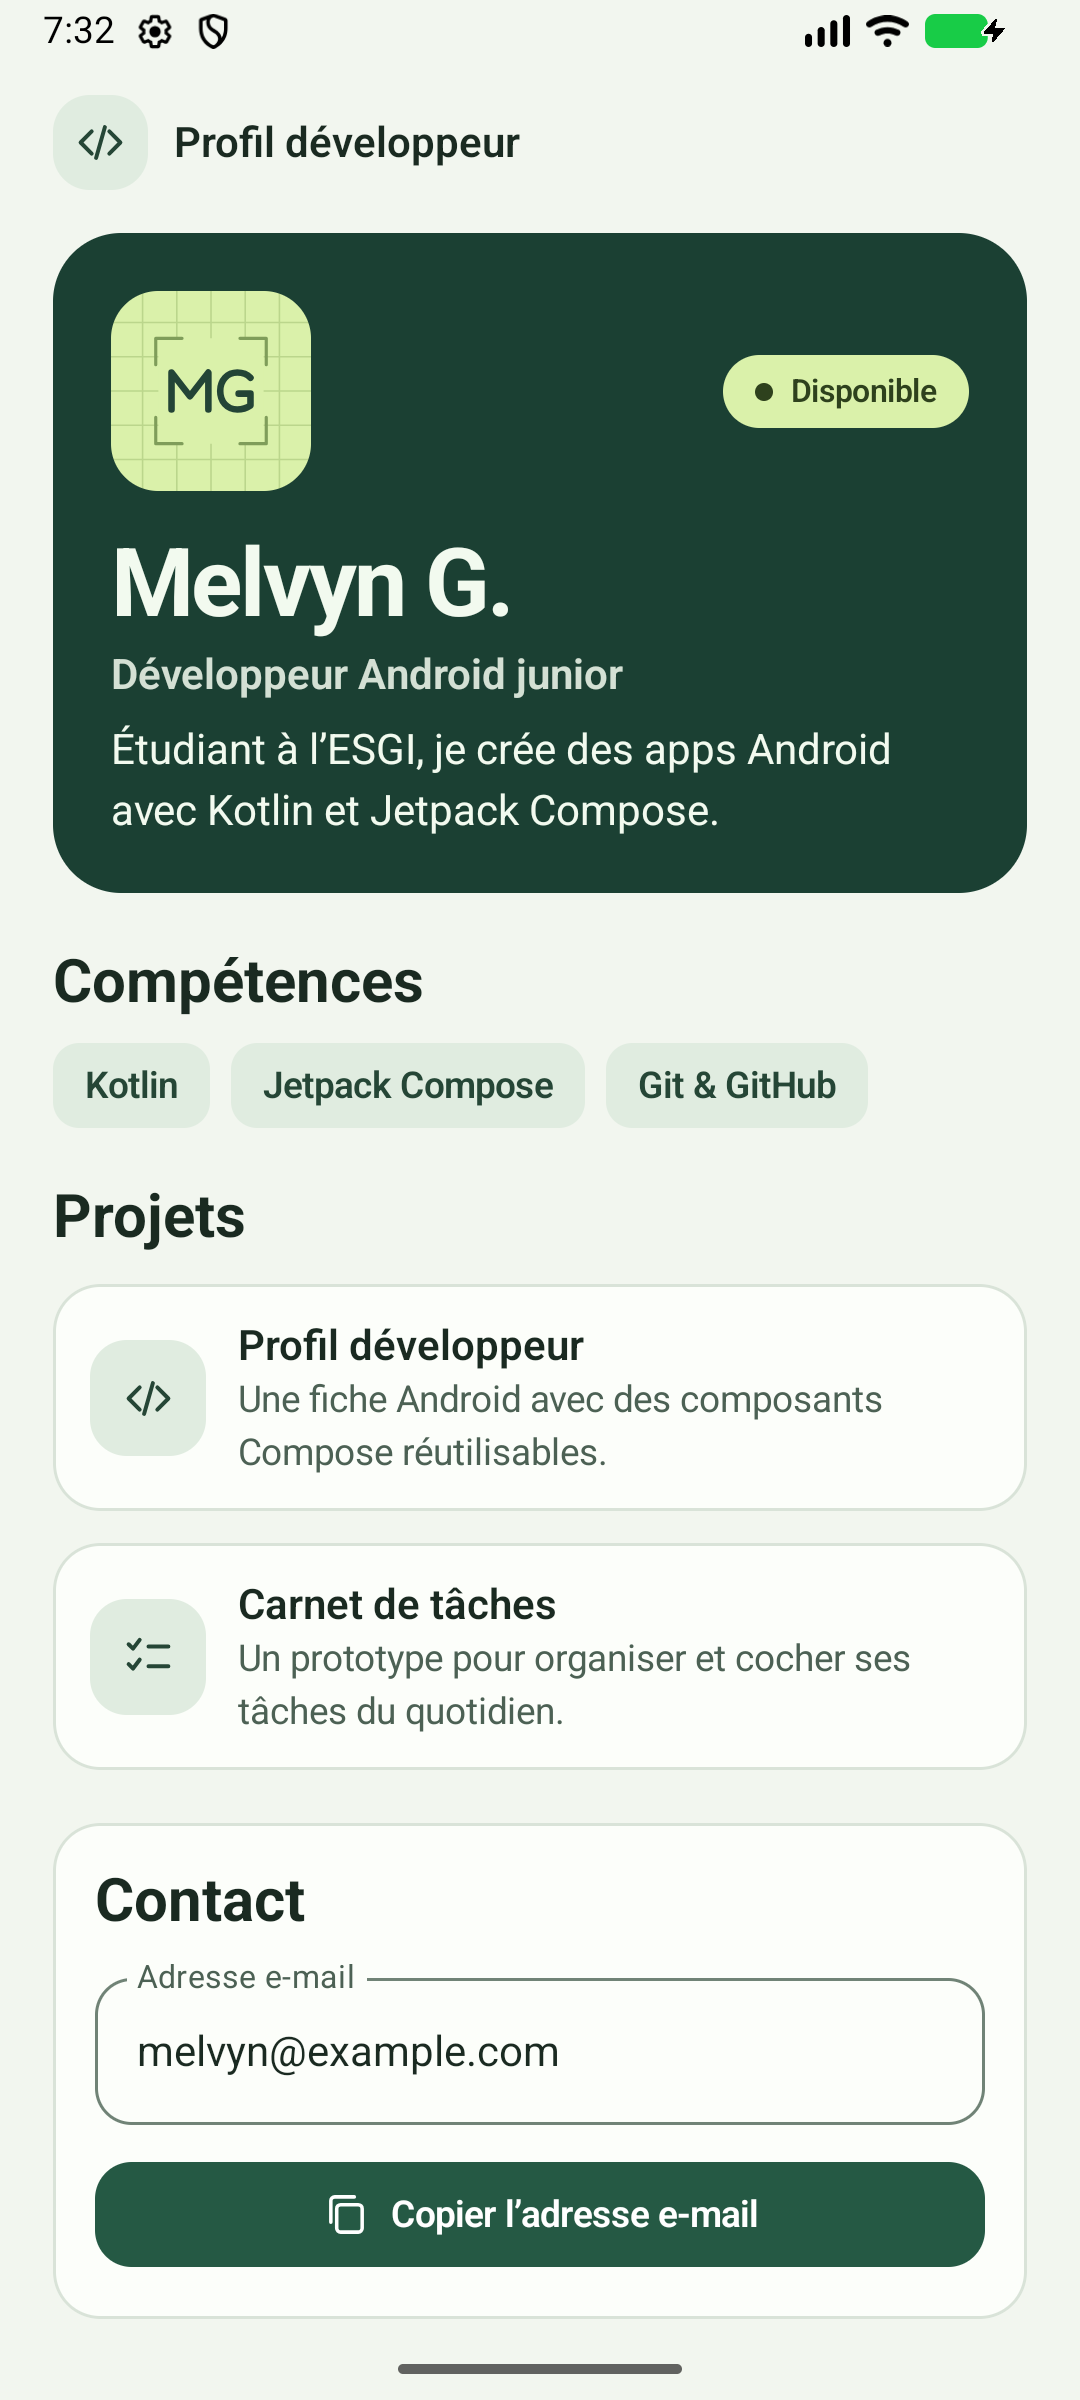
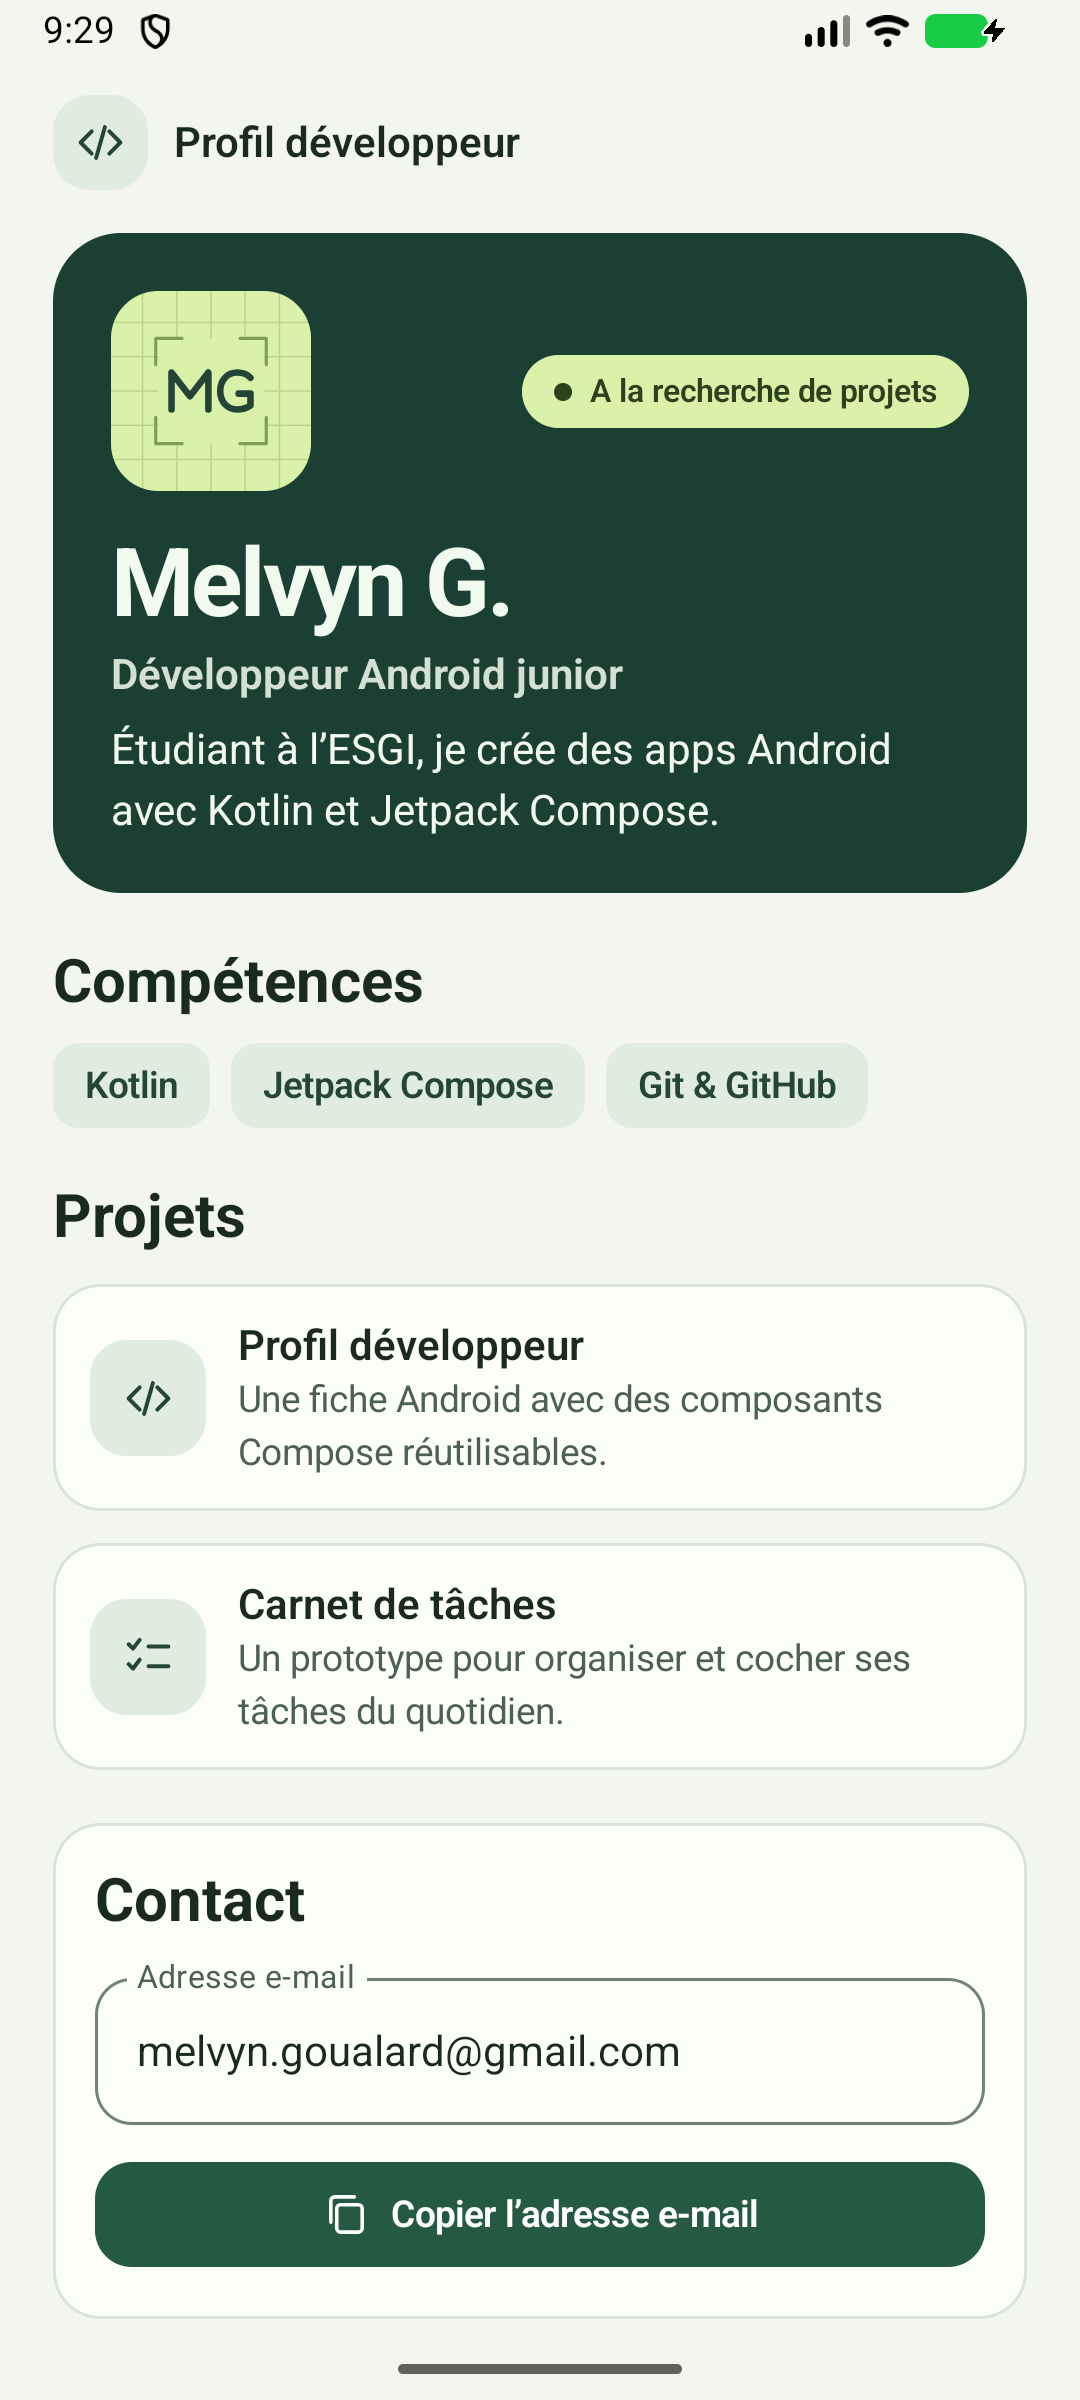
Mettre à jour le contact et le statut du profil

diff --git a/app/src/main/java/fr/esgi/profilcompose/DeveloperProfile.kt b/app/src/main/java/fr/esgi/profilcompose/DeveloperProfile.kt
@@ -23,8 +23,8 @@ internal val melvynProfile = DeveloperProfile(
     name = "Melvyn G.",
     role = "Développeur Android junior",
     bio = "Étudiant à l’ESGI, je crée des apps Android avec Kotlin et Jetpack Compose.",
-    availability = "Disponible",
-    email = "melvyn@example.com",
+    availability = "A la recherche de projets",
+    email = "melvyn.goualard@gmail.com",
     avatar = R.drawable.avatar_melvyn,
     skills = listOf("Kotlin", "Jetpack Compose", "Git & GitHub"),
     projects = listOf(

diff --git a/README.md b/README.md
@@ -1,6 +1,6 @@
 # Profil développeur
 
-Application Android en Jetpack Compose qui présente Melvyn G., étudiant à l’ESGI et développeur Android junior. La fiche affiche son avatar, sa disponibilité, ses compétences, deux projets et une adresse e-mail fictive. Le bouton de contact copie cette adresse dans le presse-papiers.
+Application Android en Jetpack Compose qui présente Melvyn G., étudiant à l’ESGI et développeur Android junior. La fiche affiche son avatar, sa disponibilité, ses compétences, deux projets et son adresse e-mail. Le bouton de contact copie cette adresse dans le presse-papiers.
 
 ## Captures d’écran
 
